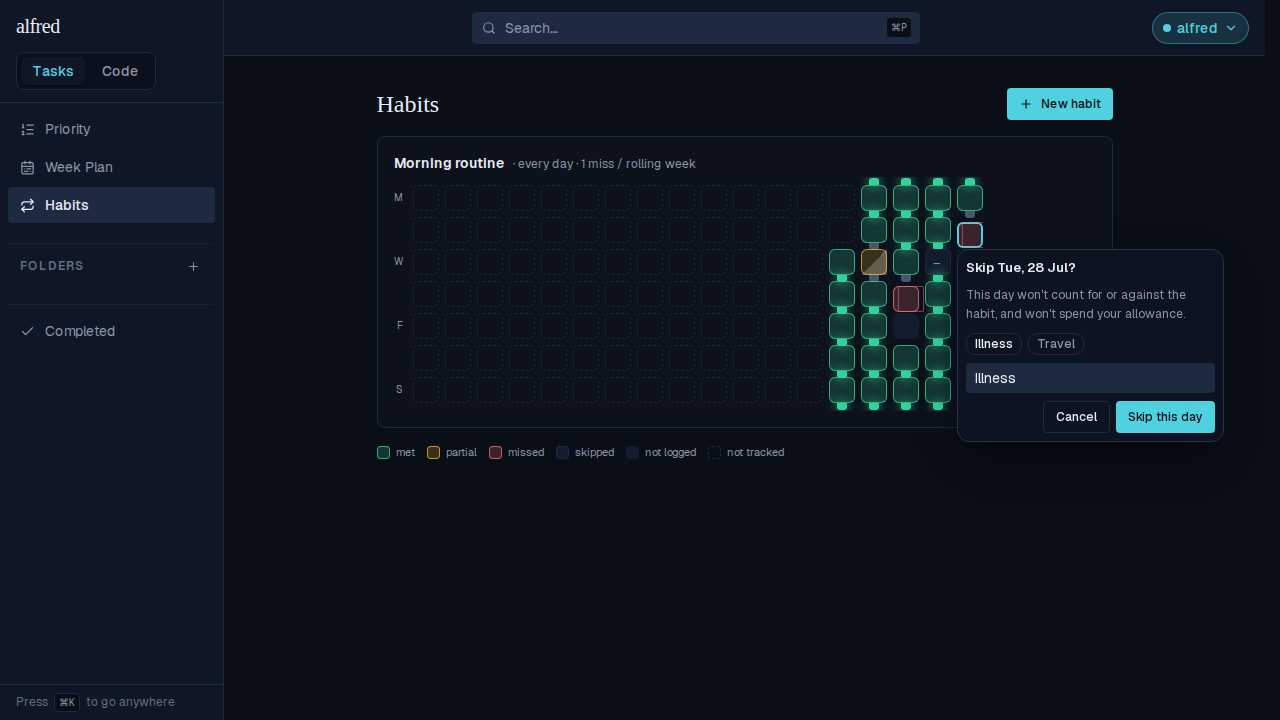
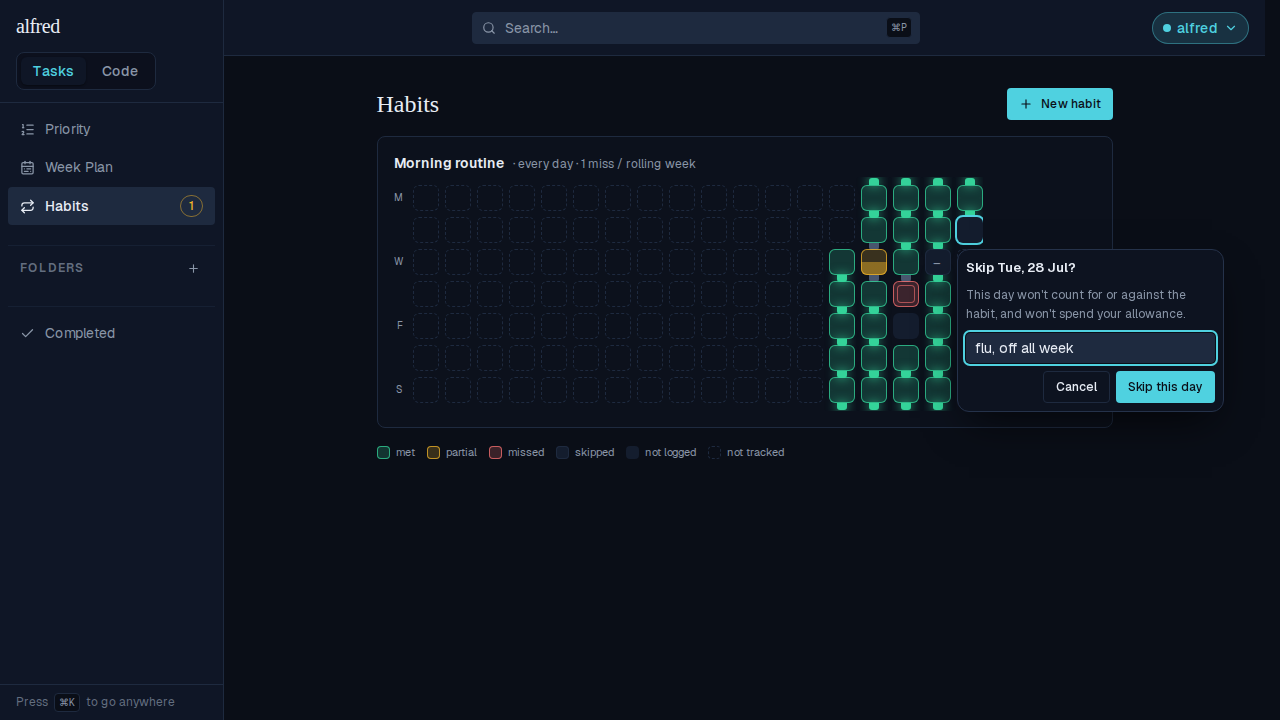
docs(demos): recapture the habit tracker screenshots

diff --git a/docs/demos/habit-tracker/habit-tracker.md b/docs/demos/habit-tracker/habit-tracker.md
@@ -109,7 +109,7 @@ Closing the editor leaves today green and the sidebar badge gone.
 
 ## Excusing a day
 
-`Mark as skipped…` opens a confirm step rather than skipping. It states the consequence in the owner's terms, offers the two cases the epic names as one-tap prefills, and keeps **Skip this day** disabled until a reason is there — a frictionless skip would be a button that launders a broken streak into an intact one.
+`Mark as skipped…` opens a confirm step rather than skipping. It states the consequence in the owner's terms and keeps **Skip this day** disabled until a reason is there — a frictionless skip would be a button that launders a broken streak into an intact one. The reason has to be **typed**: a one-tap suggestion would hand back the second of the two things this step charges for, and a category picked off a list isn't something a human wrote.
 
 ![](habit-tracker-image-10.png)
 
